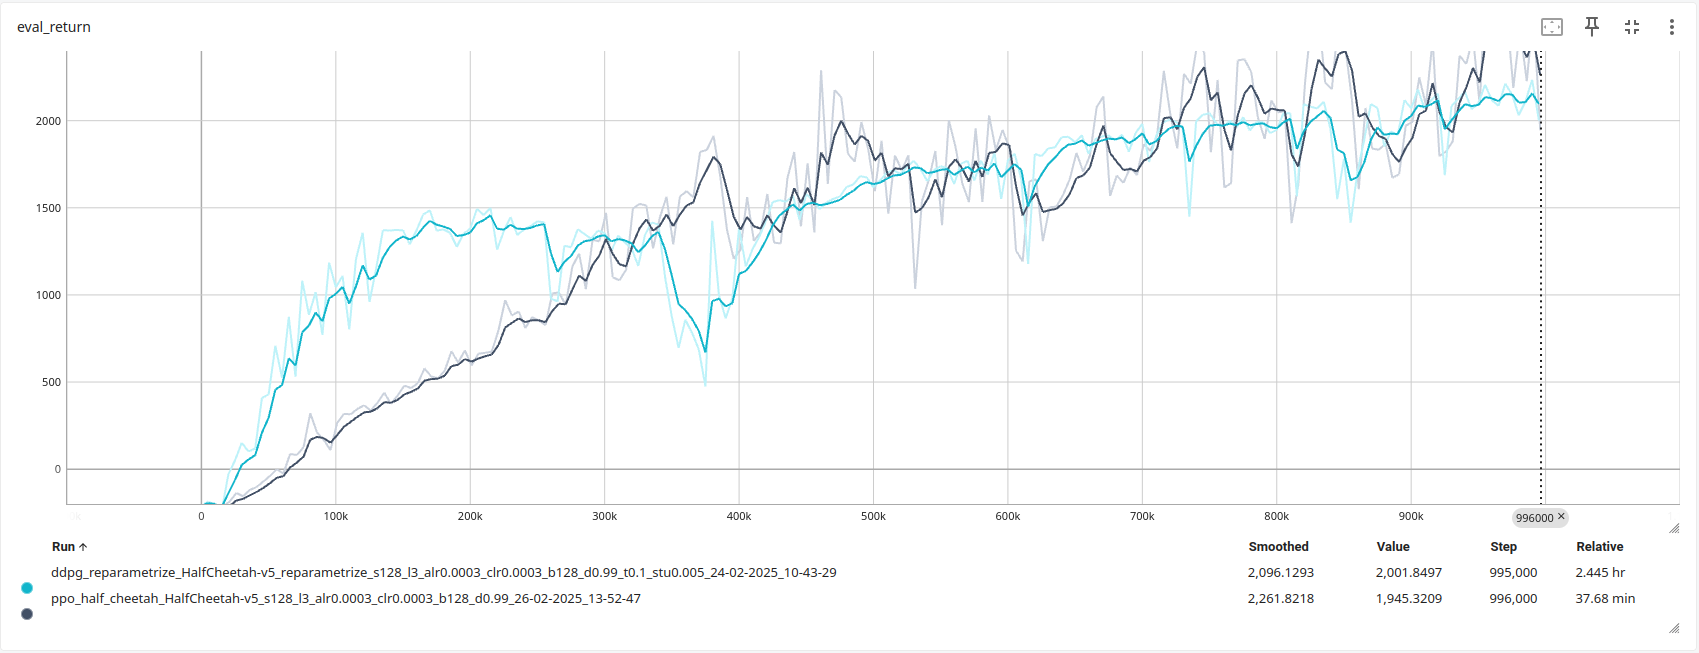
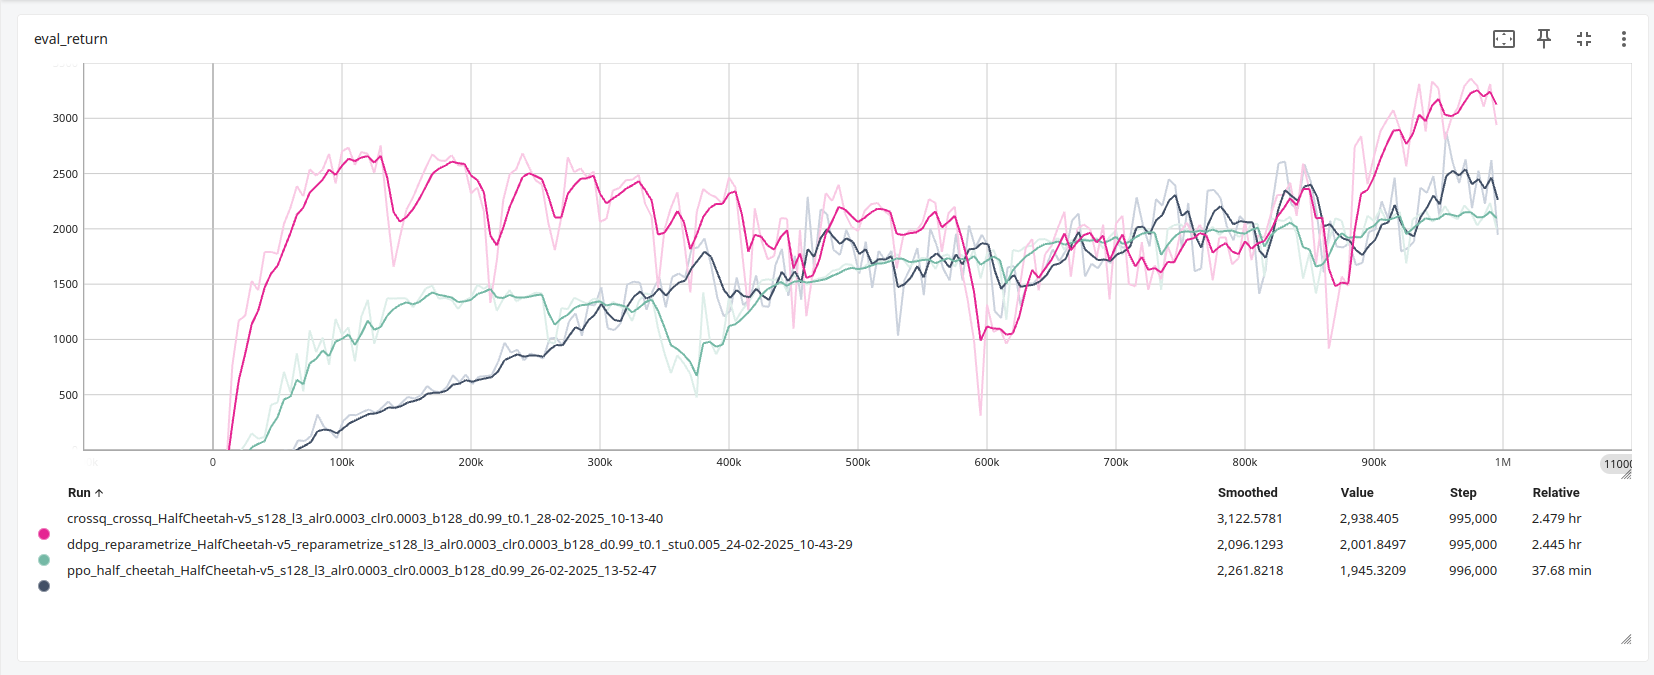
update experiment results

diff --git a/README.md b/README.md
@@ -2,7 +2,7 @@
 This repository contains a list of reinforcement learning algorithms.
 
 ## Experimental Results
-Evaluation rewards of DDPG and PPO on  halfcheetah task:
+Evaluation rewards on halfcheetah task:
 ![Evaluation Reward](figures/results.png)
 
 ## Install The Package
